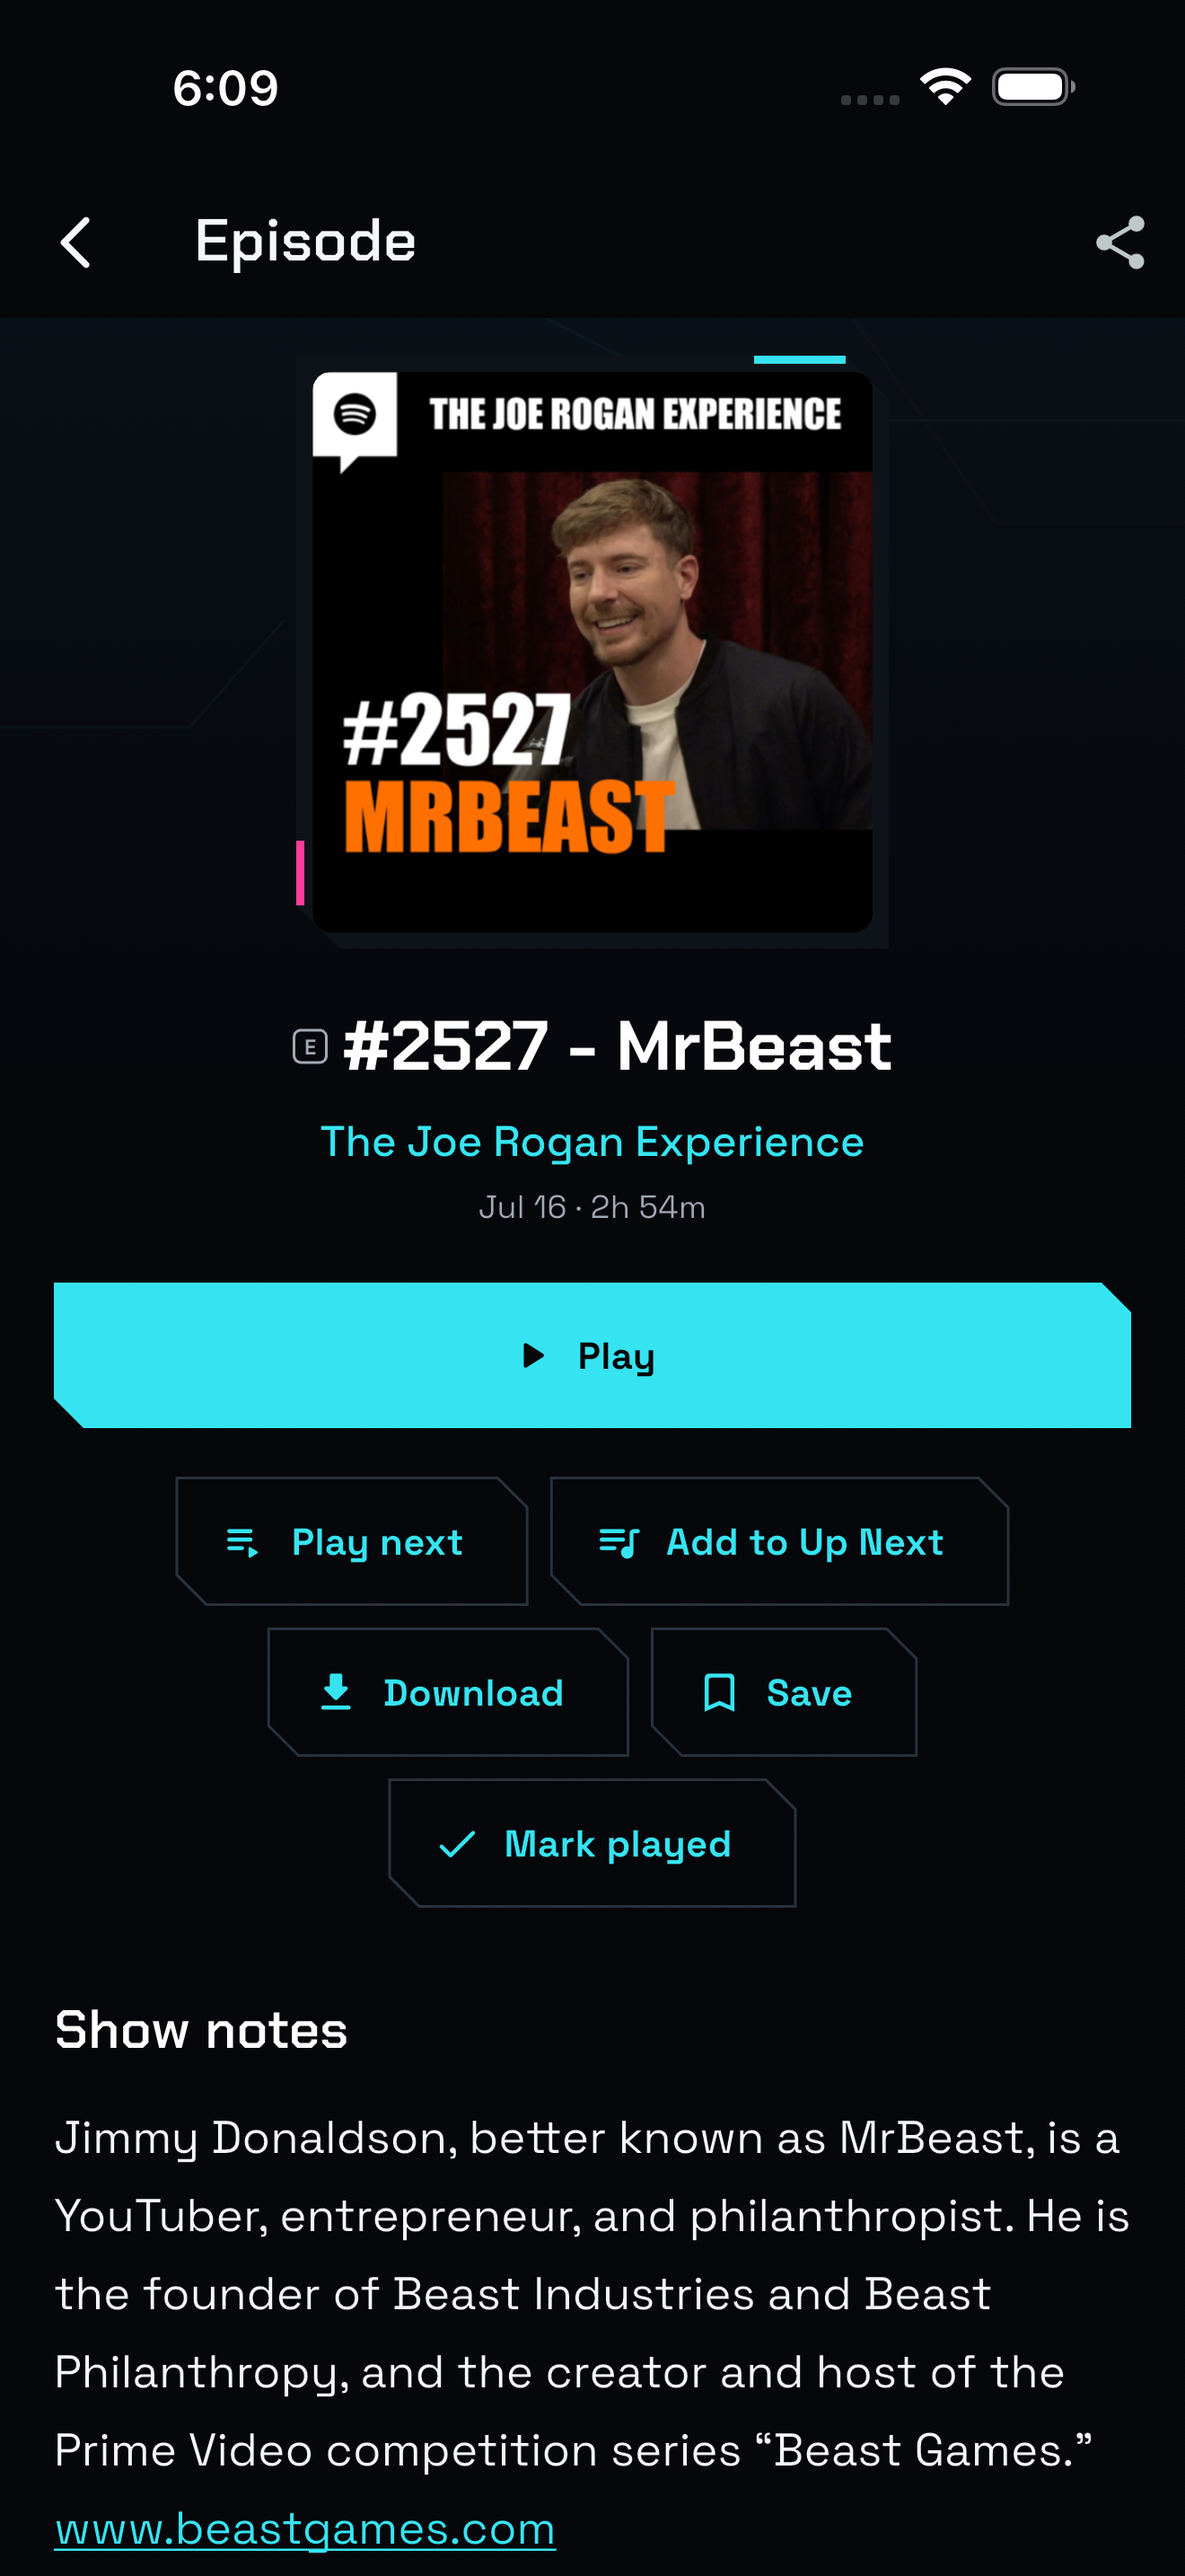
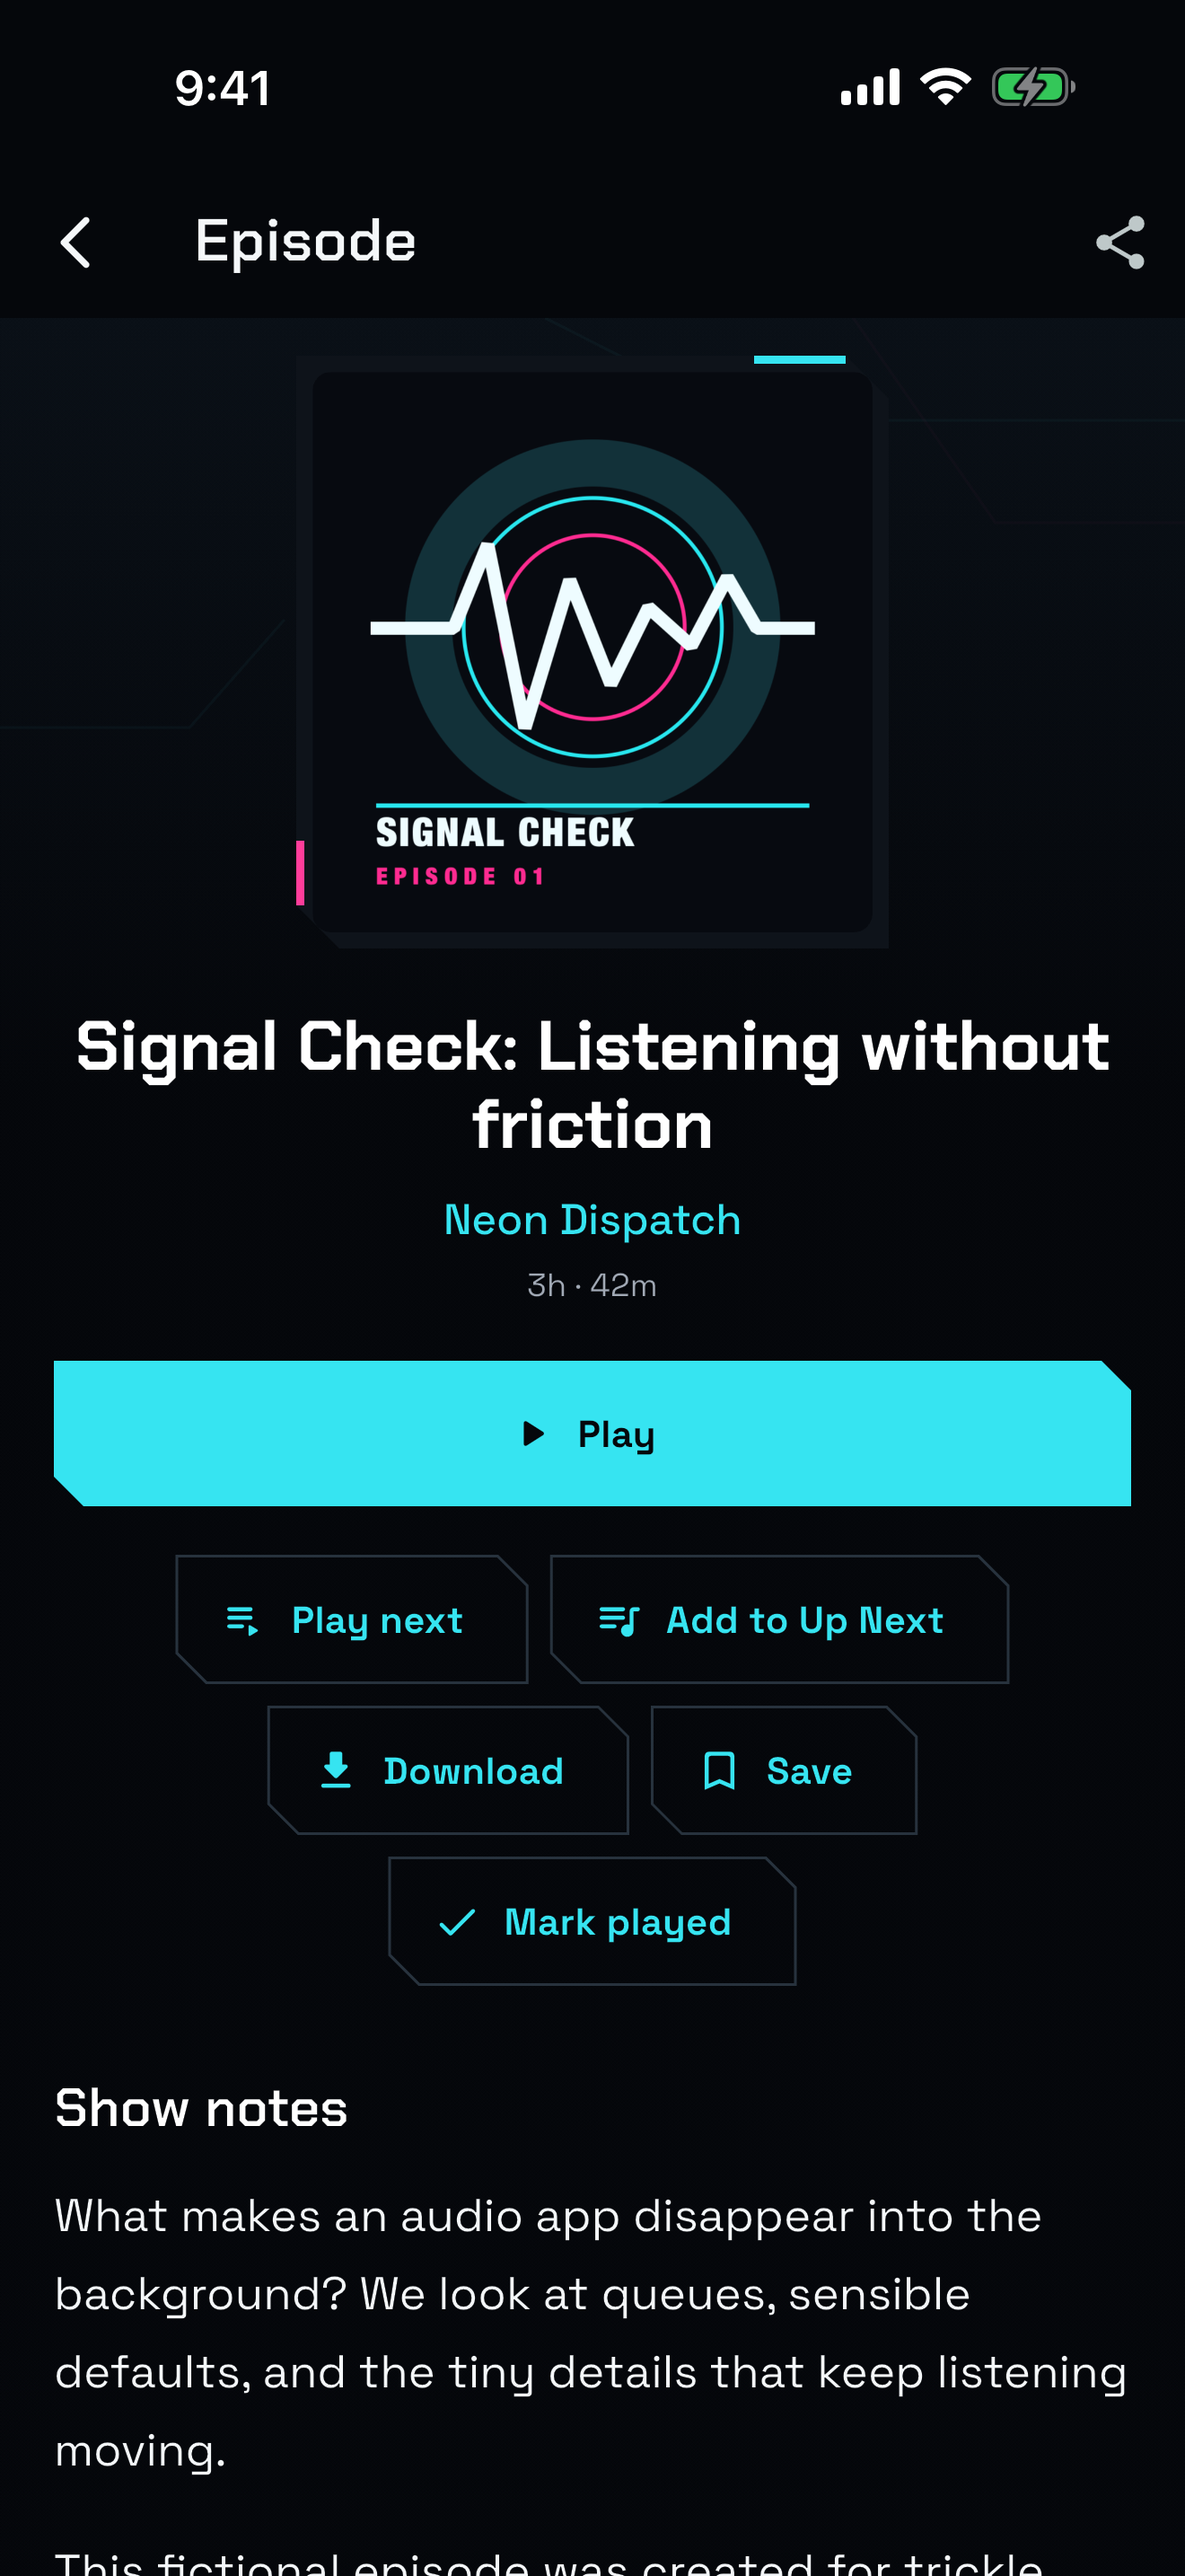
chore: replace app store screenshots

diff --git a/store/app_review_notes.md b/store/app_review_notes.md
@@ -8,11 +8,11 @@ trickle is a podcast player and RSS reader. No account, login, purchase, subscri
 2. Search the Apple podcast catalog for a public podcast and open it. Its description and episode list are available before subscription. Subscribe from that screen.
 3. Open an episode. The detail screen does not begin playback automatically; tap Play to stream it.
 4. Use the episode menu to download it or add it to Up Next.
-5. From Home, tap Add Feed under Feeds to enter a public RSS, Atom, JSON Feed, website URL, or Nostr `npub`/`nprofile`. Nostr profile feeds show verified root posts and omit replies and reposts. Posts may include Markdown, content warnings, images, native audio, or direct video. Open Feed settings to move a non-podcast source to a previous or new optional category. Reader > Feeds can rename a category for all matching sources.
+5. From Home, tap Add Feed under Feeds to enter a public RSS, Atom, JSON Feed, website URL, or Nostr `npub`/`nprofile`. Nostr profile feeds show verified root posts and omit replies and reposts.
 6. Tap Add YouTube to enter a public YouTube channel or playlist URL. Both actions use the same feed subscription pipeline.
 7. Open an article to use the extracted reader view. Share and Open in browser are available from the reader toolbar.
-8. Open a YouTube feed entry to use its in-app web player. It can be minimized to a persistent live Now Playing preview while navigating the app, expanded again without reloading, closed, or opened at its original URL. Its explicit Picture in Picture button starts the system presentation on supported devices. During Picture in Picture, the in-app bar uses the entry thumbnail. Closing the in-app bar ends the video. Closing or restoring the system window while trickle is visible returns the same video and timestamp to the minimized player; closing it while trickle is backgrounded ends playback. Video audio continues while the app is hidden only during Picture in Picture; otherwise the video pauses. If the initial video page cannot load, the same player falls back to the official source URL from the feed.
-9. Settings contains global playback speed, download cleanup, standard OPML import, separate OPML exports for podcasts, feeds (RSS and YouTube), and all compatible subscriptions, plus local backup controls. OPML folders preserve reader categories. The local backup also preserves Nostr profiles and their portable state.
+8. Open a YouTube feed entry to use its in-app web player. It can be minimized, restored without reloading, closed, or placed in system Picture in Picture. Video audio continues outside the app only during Picture in Picture; otherwise video pauses. A failed initial page falls back inside the same player to the official URL from the feed.
+9. Settings contains global playback speed, download cleanup, OPML import and scoped exports, and local backup controls.
 
 Network access is required for catalog search, feed refresh, article extraction, artwork, and streaming. Downloaded episodes and previously cached content remain available offline.
 
@@ -27,3 +27,5 @@ Private-feed support is optional and is not required for review. Credentials ent
 ## Content
 
 trickle is a general-purpose client for content selected by the user. Podcast search uses Apple's public catalog. Public YouTube channel and playlist URLs resolve to YouTube's Atom feeds. Video entries play in an embedded web player. If the initial page cannot load, the same player falls back to the official source URL from the feed. Nostr profile feeds request signed public events from secure relays and verify them on the device. trickle does not download, extract, host, or modify video streams. The app does not host, sell, or modify third-party audio, articles, or posts.
+
+The App Store screenshots contain only the fictional “Neon Dispatch” podcast and “Field Notes” feed. Their titles, descriptions, articles, and artwork were created specifically for trickle and are owned by the developer; no third-party content or branding appears in the screenshots.

diff --git a/store/RELEASE.md b/store/RELEASE.md
@@ -85,7 +85,14 @@ The application includes its privacy manifest, background-audio configuration, b
 
 The application targets iOS 17 or later, exceeding Apple's announced iOS 15 minimum for App Store Connect uploads and distribution submissions beginning in Spring 2027. Test fresh installs and upgrades on iOS 17 before every release.
 
-The iOS target is iPhone-only. Five 1320×2868 iPhone captures verified against the current visual system on July 29, 2026 are in `store/apple/screenshots/`. The capture flow does not seed content: prepare a simulator with the podcast and feed data asserted by `tool/maestro/capture_store_screenshots.yaml`, then regenerate the images from the repository root with `maestro test tool/maestro/capture_store_screenshots.yaml`.
+The iOS target is iPhone-only. Five 1320×2868 iPhone captures verified against the current visual system on August 20, 2026 are in `store/apple/screenshots/`. Their fictional podcast, feed, copy, and artwork are original project fixtures under `store/apple/fixtures/`; no third-party content appears in the set. After building and launching trickle once on a simulator, seed it and regenerate the images from the repository root:
+
+```sh
+tool/maestro/seed_store_screenshot_data.sh [simulator-udid]
+maestro test tool/maestro/capture_store_screenshots.yaml
+```
+
+The seed command changes only the selected simulator's app data. Fixture logic and artwork are not bundled into the released app.
 
 In App Store Connect, use `store/metadata.md` and `store/app_review_notes.md`, answer App Privacy as no data collected by the developer, and publish that response before submitting a version. Provide the verified hosted privacy and support URLs, complete age-rating and content-rights answers, attach the current screenshots, provide review contact details, and test the uploaded build using `store/testflight_notes.md`.
 

diff --git a/README.md b/README.md
@@ -100,4 +100,4 @@ The repository publishes these documents from `main/docs` through GitHub Pages.
 
 ## Release
 
-Use the [release checklist](store/RELEASE.md), [store metadata](store/metadata.md), [App Review notes](store/app_review_notes.md), and [TestFlight notes](store/testflight_notes.md). The release workflow and screenshot-capture tooling are in `store/apple/` and `tool/maestro/`; private signing-key material remains outside the repository. The checked-in screenshot set was verified against the current visual system on July 29, 2026.
+Use the [release checklist](store/RELEASE.md), [store metadata](store/metadata.md), [App Review notes](store/app_review_notes.md), and [TestFlight notes](store/testflight_notes.md). The release workflow and screenshot-capture tooling are in `store/apple/` and `tool/maestro/`; private signing-key material remains outside the repository. The checked-in screenshot set was verified against the current visual system on August 20, 2026, using the repository's original fictional content and artwork.

diff --git a/store/metadata.md b/store/metadata.md
@@ -7,7 +7,7 @@
 - Apple ID: 6792352845
 - Bundle ID: com.parmscript.trickle
 - Version: 1.0.0
-- Build: 44
+- Build: 47
 
 ## Name
 
@@ -80,7 +80,7 @@ Both pages are published from `main/docs` in the public trickle repository. Veri
 
 ## Screenshots
 
-Five 1320×2868 iPhone screenshots were verified against the current visual system on July 29, 2026. Use `tool/maestro/capture_store_screenshots.yaml` after preparing its asserted podcast and feed data whenever the interface changes, then upload the images in this order:
+Five 1320×2868 iPhone screenshots were verified against the current visual system on August 20, 2026. The fictional podcast, feed, copy, and artwork in them are original project fixtures; no third-party content appears. After building and launching trickle once on a simulator, run `tool/maestro/seed_store_screenshot_data.sh [simulator-udid]`, then `maestro test tool/maestro/capture_store_screenshots.yaml`. Upload the images in this order:
 
 1. Home
 2. Podcast
